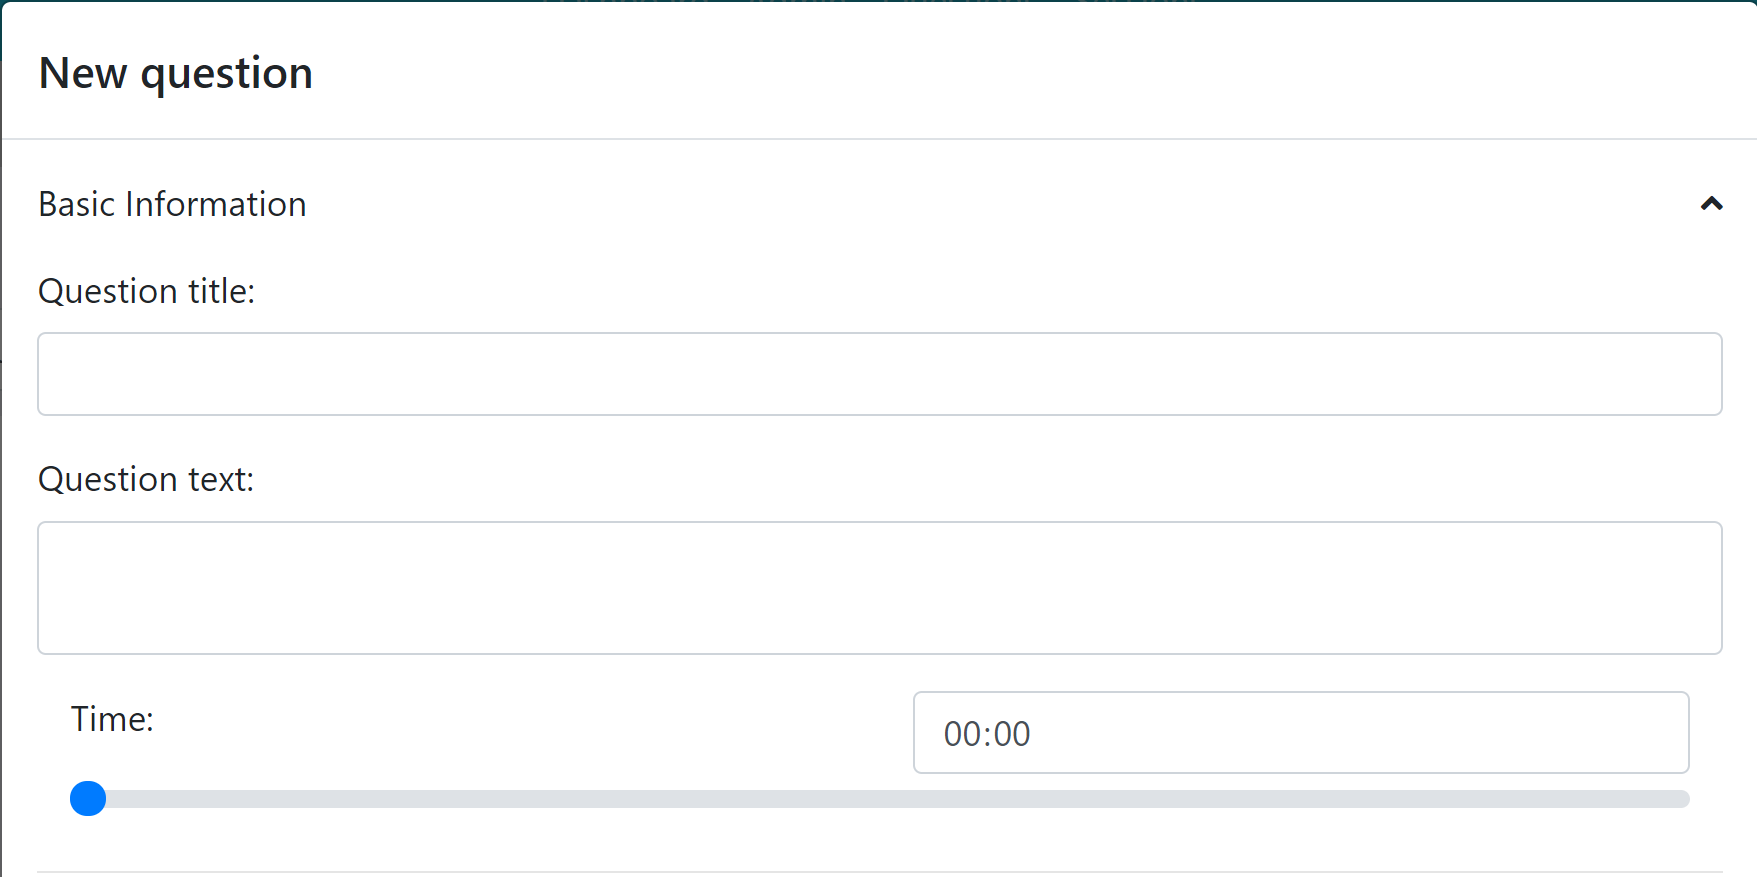
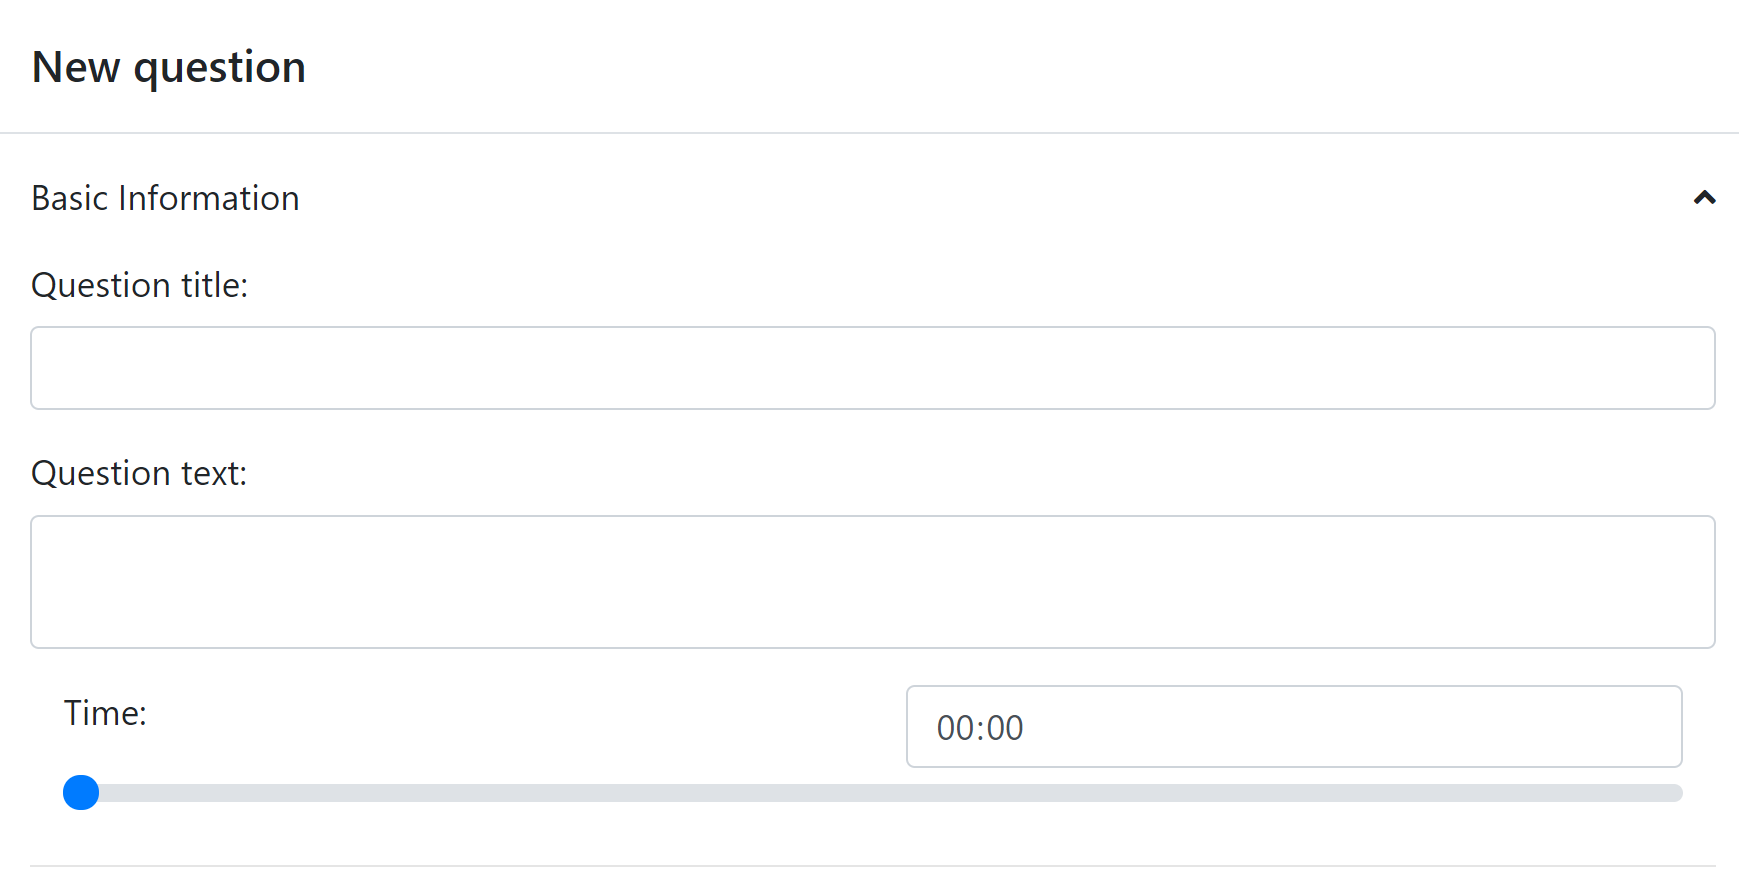
added editQuestion component images

diff --git a/Rapport/sections/construction/application/createQuestion.tex b/Rapport/sections/construction/application/createQuestion.tex
@@ -23,9 +23,22 @@ Tables are added using 2-D lists where each element is a row. Each cell uses a H
 \\[11pt]
 The solution type part focuses on determining the question type of the new question and for creating the question's solution. The type decides what format the question has for both the solution and for the client during a session. The solution to questions revolving data structures and algorithms is created on the server in the solution generator. The user only needs to give the necessary information for the question so that it is possible for the student to solve it, and for the server to be able to create the solution. There are two reasons for having the server handle the solution generation. The first reason is to keep it away from clients participating in a session. The second reason is that forcing the user to write the entire solution for every question would be rather tedious. Not to mention reducing the chances of having the solution being written incorrectly.
 \begin{figure}[H]
-        \includegraphics{/createQuestion/editQuestionCombined}
-        \caption{This figure displays an image of the EditQuestion component}
-        \label{fig:editquestion}
+\centering
+	\begin{subfigure}{0.45\linewidth}
+        \includegraphics[width=\linewidth]{/userManual/admin/EditQuestionBasicInfo}
+        \label{fig:editQuestionBasic}
+	\end{subfigure}
+	\hfill
+	\begin{subfigure}{0.45\linewidth}
+		\includegraphics[width=\linewidth]{/userManual/admin/EditQuestionImageMediaPNG}	
+		\label{fig:editQuestionMedia}
+	\end{subfigure}
+	\begin{subfigure}{0.45\linewidth}
+		\includegraphics[width=\linewidth]{/userManual/admin/EditQuestionSolution}
+		\label{fig:editQuestionSolution}
+	\end{subfigure}
+	\caption{These images display sections of the EditQuestion component.}
+	\label{fig:editQuestion}
 \end{figure}
 \noindent
 When a user is finished creating a question, the question information is sent to the server through a socket request. The data sent to the server is the \code{newQuestion} object defined in the function \code{initializeState} in the component. Since all the properties in the \code{newQuestion} object are linked to the component, the server should have all the information it needs to generate the question solution. However, to avoid any problems regarding storing faulty questions on the server, the question information will first need to be validated by the server's validation checker. The user must at minimum fill in the information in a title, and the solution type with the solution properties for the wanted question to be valid. If the question information passes the validation checker, the question information and solution are inserted into the question table in the database. After the question is stored, socket messages are sent updating the question list on the client.
